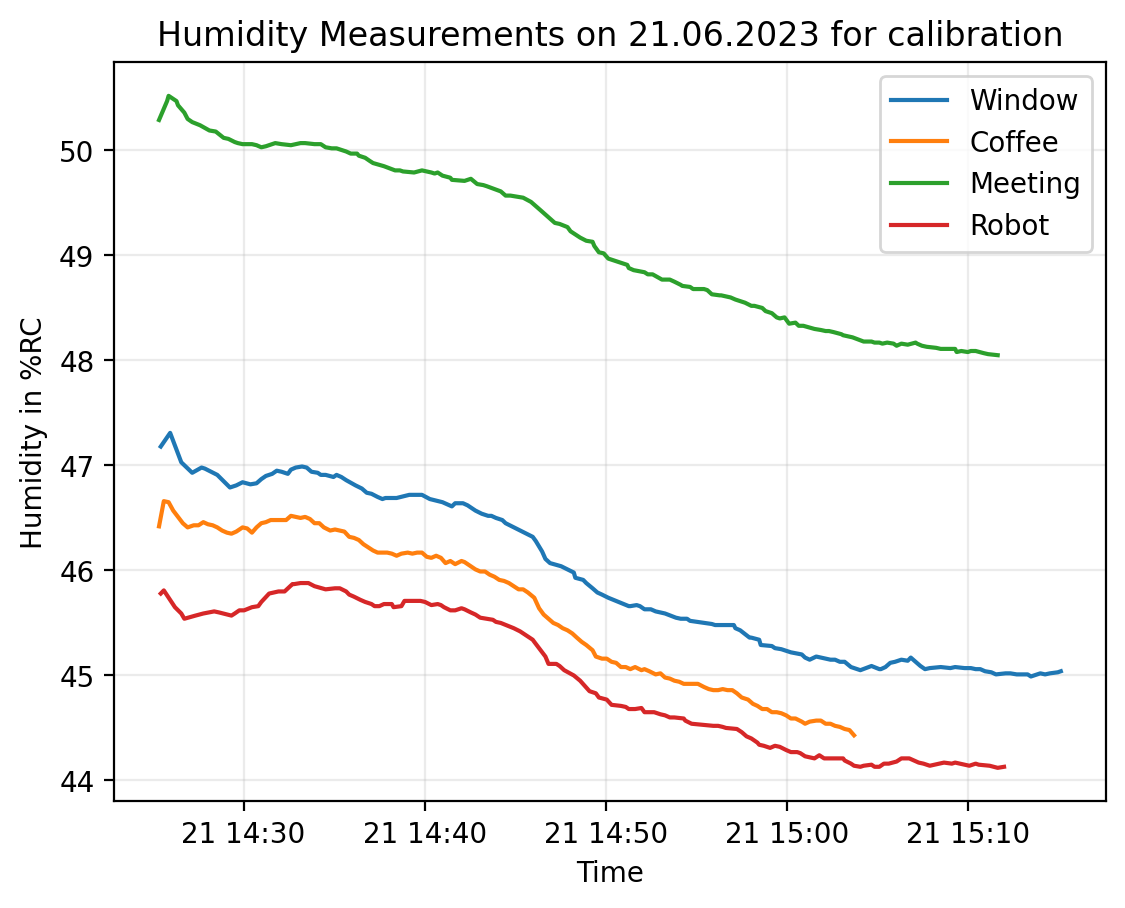
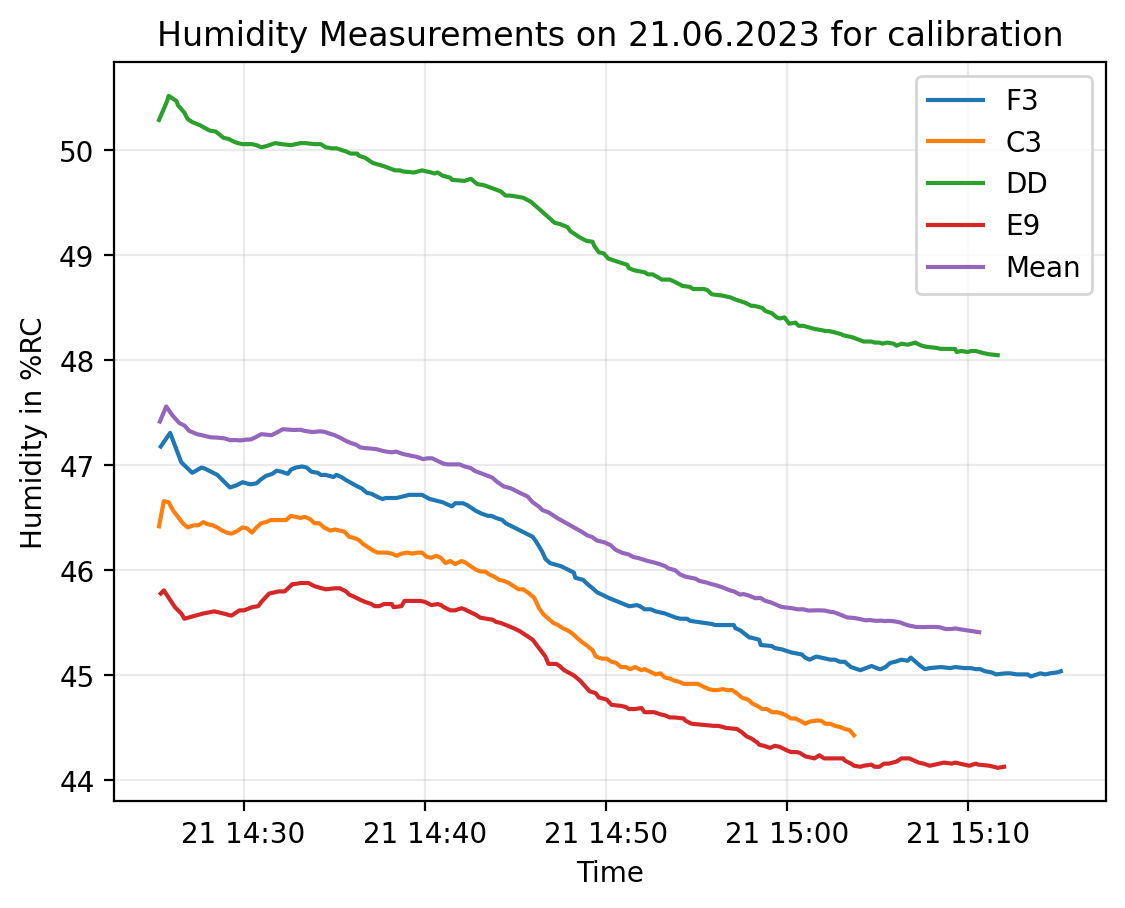
Add Mean to plots

diff --git a/plotting.py b/plotting.py
@@ -1,11 +1,14 @@
 import pandas as pd
 import matplotlib.pyplot as plt
+from sklearn.metrics import mean_squared_error
+import numpy as np
+from math import sqrt
 
-df1 = pd.read_csv('/Users/noor/Bot4BACS/cal2/F3_B8_07_6C_28_8E.csv')    #Window
-df2 = pd.read_csv('/Users/noor/Bot4BACS/cal2/C3_23_CF_79_6C_FB.csv')    #Coffee Desk
-df3 = pd.read_csv('/Users/noor/Bot4BACS/cal2/DD_3F_BC_9B_56_EC.csv')    #Meeting Table
-df4 = pd.read_csv('/Users/noor/Bot4BACS/cal2/E9_FC_42_4B_FB_7C.csv')    #Robot
-#df5 = pd.read_csv('/Users/noor/Bot4BACS/cal1/FE_ED_E9_B2_20_8E.csv')    #Not in Flight Arena -> Secret
+df1 = pd.read_csv('/Users/noor/Bot4BACS/cal1/F3_B8_07_6C_28_8E.csv')    #Window
+df2 = pd.read_csv('/Users/noor/Bot4BACS/cal1/C3_23_CF_79_6C_FB.csv')    #Coffee Desk
+df3 = pd.read_csv('/Users/noor/Bot4BACS/cal1/DD_3F_BC_9B_56_EC.csv')    #Meeting Table
+df4 = pd.read_csv('/Users/noor/Bot4BACS/cal1/E9_FC_42_4B_FB_7C.csv')    #Robot
+#df5 = pd.read_csv('/Users/noor/Bot4BACS/cal1/FE_ED_E9_B2_20_8E.csv')   #Not in Flight Arena -> Secret
 
 helpertime=[]
 helperparam=[]
@@ -22,27 +25,35 @@ for x in values:
         #helperparam = df["CO2"]
         helperparam = df[x]
         param[i] = helperparam
-        print(x)
+    param = param.dropna()
+    time = time.dropna()
+    time[4] = time.mean(axis=1)
+    param[4] = param.iloc[:,0:4].mean(axis=1)           # Add mean column
+    param[4] = round(param[4],1)
+    print(param)    
+    # Root Mean Square Error
+    #mse_1 = mean_squared_error(param[5])
+    #rmse1 = sqrt(mse_1) 
     plt.title(str(x)+' Measurements on 21.06.2023 for calibration')
     if x == "CO2":
         plt.ylabel('CO2 in ppm')
-        plt.plot(time,param,label=["Window","Coffee","Meeting","Robot"])
+        plt.plot(time,param,label=["F3","C3","DD","E9","Mean"])
     elif x == "Temperature":
         plt.ylabel('Temperature in °C')
-        plt.plot(time,param/100,label=["Window","Coffee","Meeting","Robot"])
+        plt.plot(time,param/100,label=["F3","C3","DD","E9","Mean"])
     elif x == "Humidity":
         plt.ylabel('Humidity in %RC')
-        plt.plot(time,param/100,label=["Window","Coffee","Meeting","Robot"])
+        plt.plot(time,param/100,label=["F3","C3","DD","E9","Mean"])
     elif x == "Pressure":
         plt.ylabel('Pressure in Pa')
-        plt.plot(time,param/100,label=["Window","Coffee","Meeting","Robot"])
+        plt.plot(time,param/100,label=["F3","C3","DD","E9","Mean"])
     elif x == "Photo":
         plt.ylabel('ADC')
-        plt.plot(time,param,label=["Window","Coffee","Meeting","Robot"])
+        plt.plot(time,param,label=["F3","C3","DD","E9","Mean"])
     plt.legend()    
     plt.xlabel('Time')
     #plt.xticks(rotation= 30, ha='right')
     plt.grid(alpha=0.25)
-    plt.savefig('/Users/noor/Bot4BACS/cal2/'+str(x)+'.png',bbox_inches='tight', dpi=200)
+    plt.savefig('/Users/noor/Bot4BACS/cal1/'+str(x)+'.png',bbox_inches='tight', dpi=200)
     plt.show()
 
